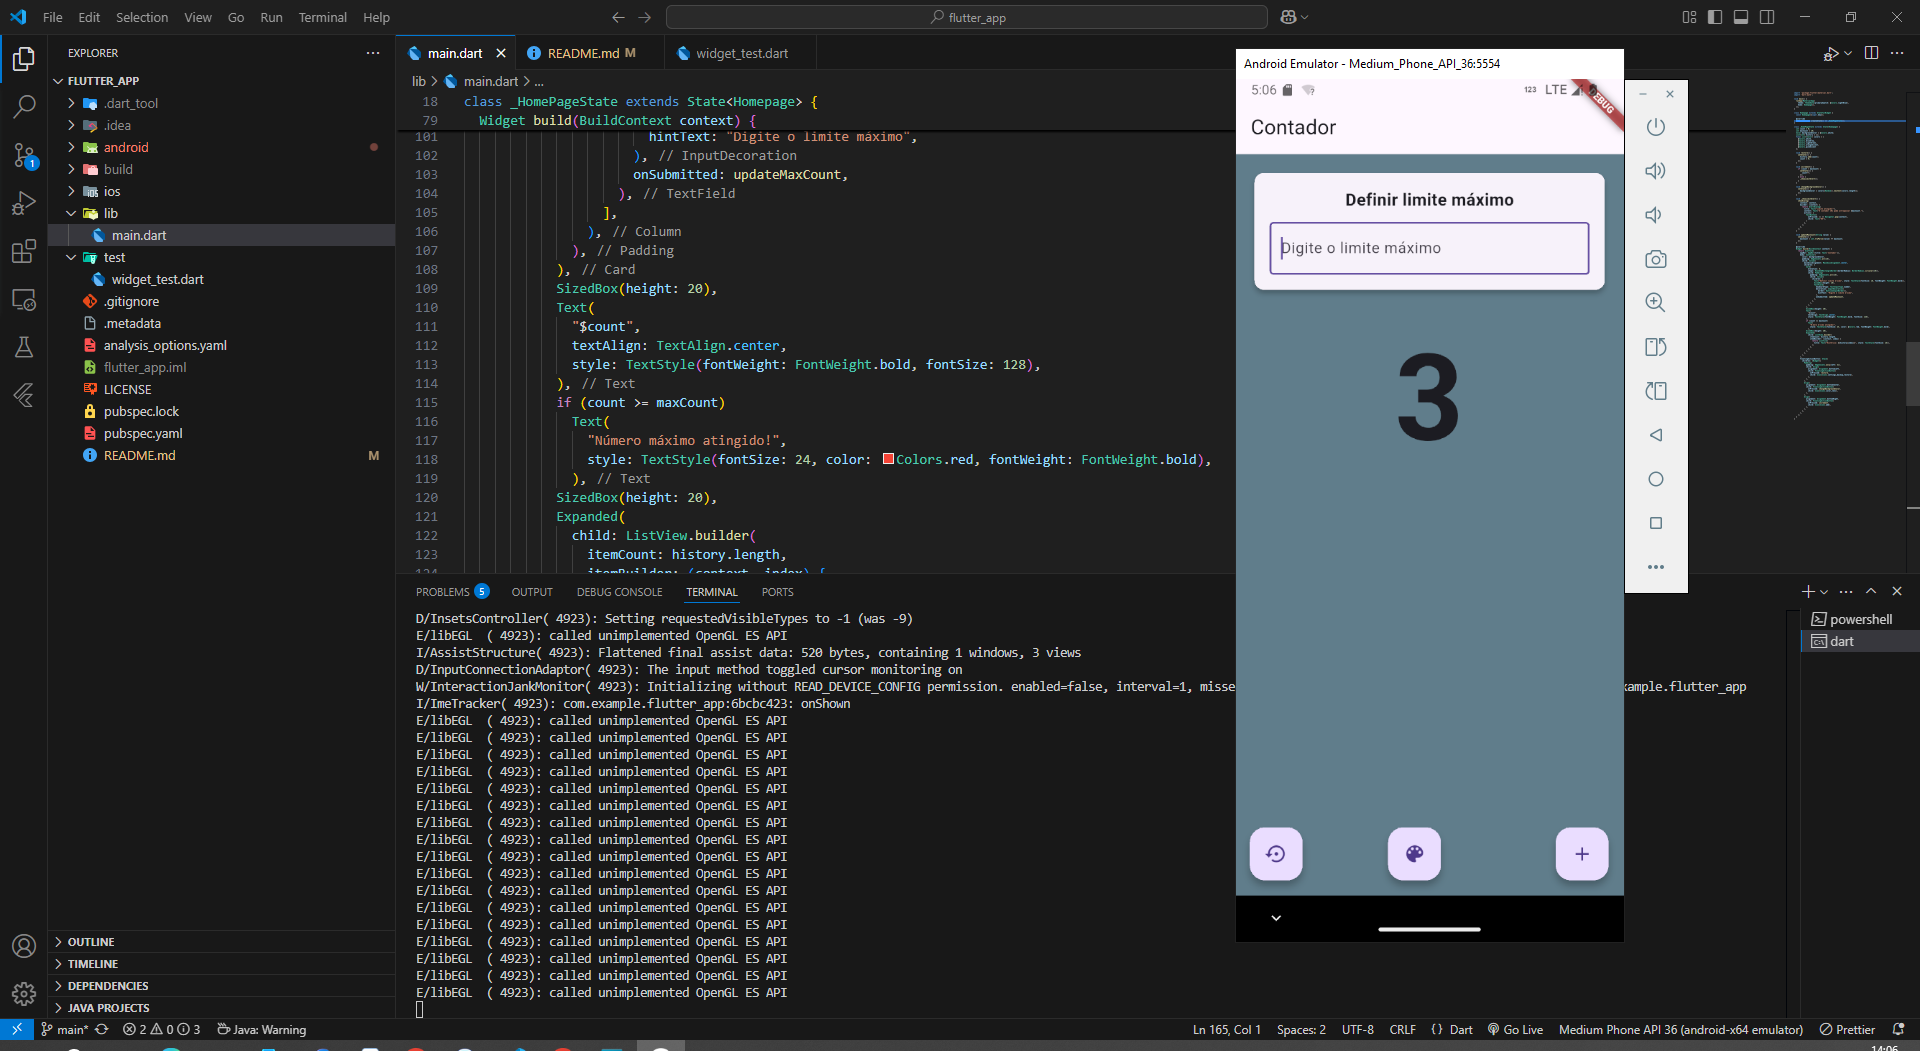
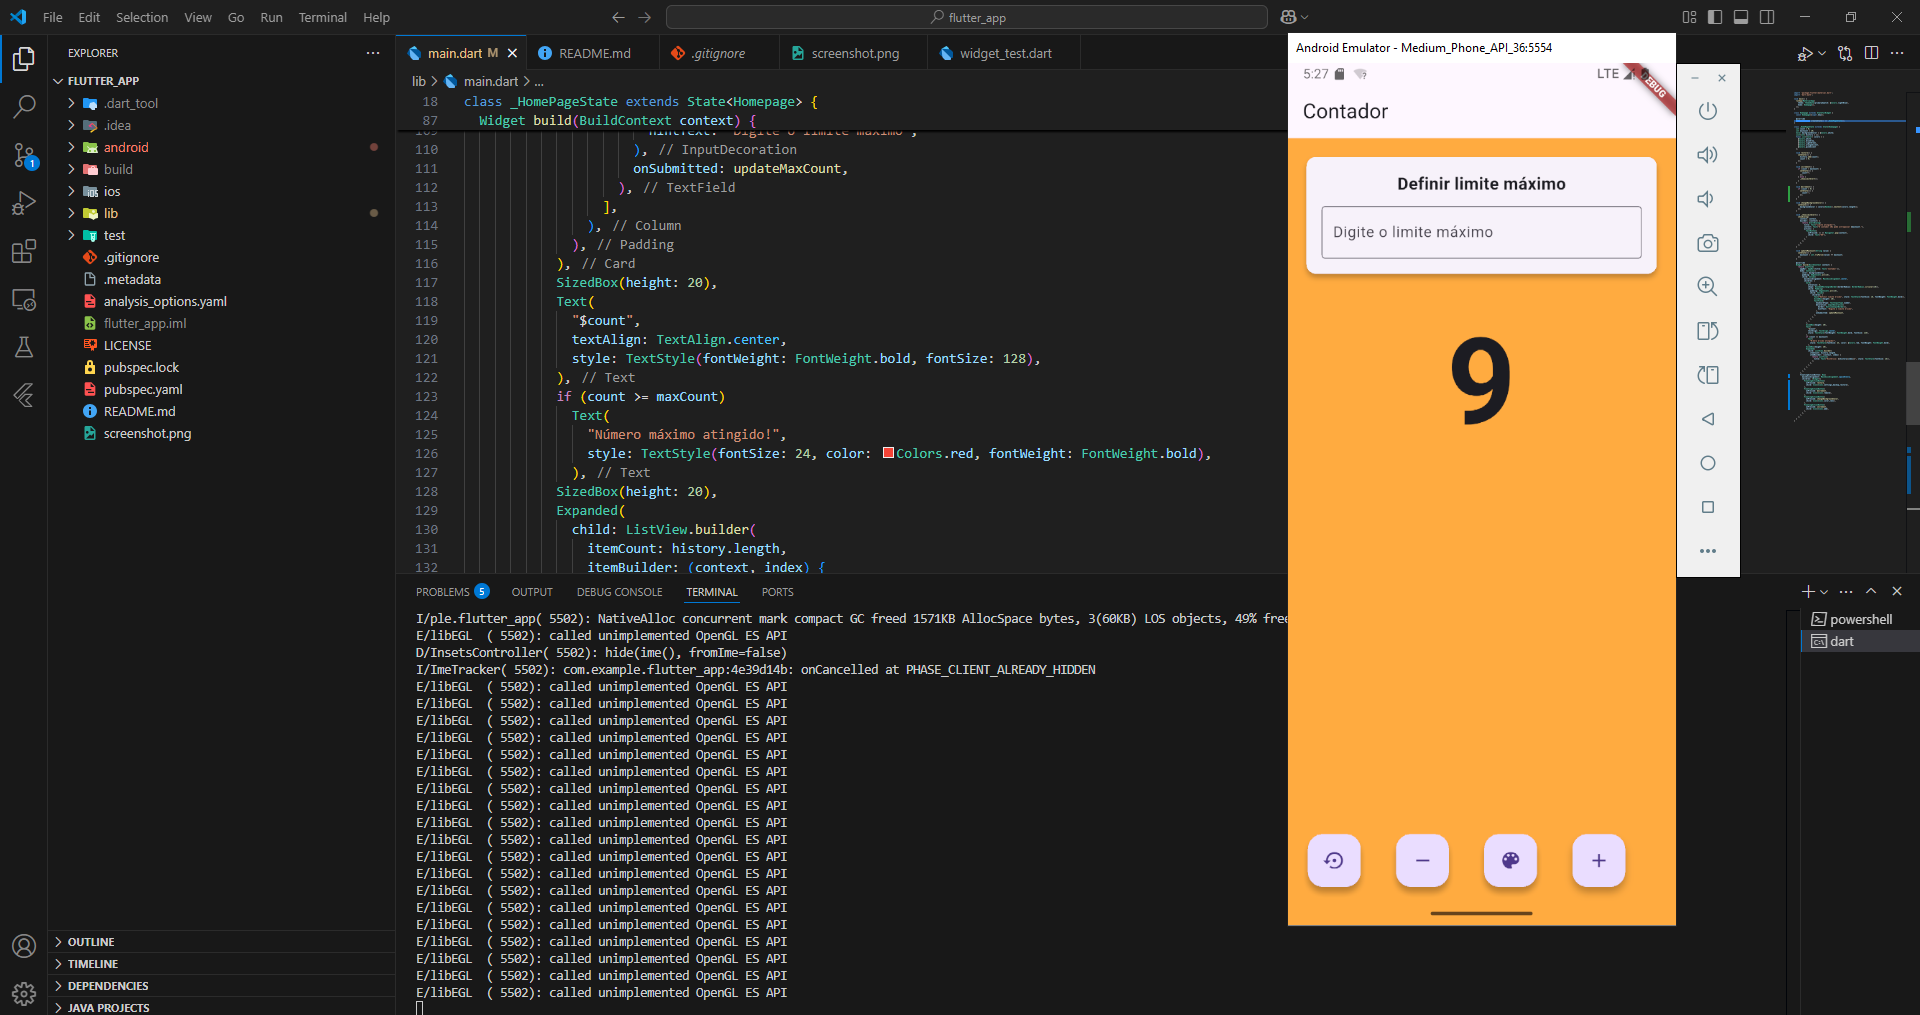
Bug Fix

diff --git a/lib/main.dart b/lib/main.dart
@@ -45,6 +45,14 @@ class _HomePageState extends State<Homepage> {
     }
   }
 
+  void decrement() {
+    if (count > 0) {
+      setState(() {
+        count--;
+      });
+    }
+  }
+
   void changeBackgroundColor() {
     setState(() {
       backgroundColor = colors[Random().nextInt(colors.length)];
@@ -131,31 +139,24 @@ class _HomePageState extends State<Homepage> {
           ],
         ),
       ),
-      floatingActionButton: Stack(
+      floatingActionButton: Row(
+        mainAxisAlignment: MainAxisAlignment.spaceEvenly,
         children: <Widget>[
-          Padding(
-            padding: EdgeInsets.only(left: 31),
-            child: Align(
-              alignment: Alignment.bottomLeft,
-              child: FloatingActionButton(
-                onPressed: restore,
-                child: Icon(Icons.settings_backup_restore),
-              ),
-            ),
+          FloatingActionButton(
+            onPressed: restore,
+            child: Icon(Icons.settings_backup_restore),
           ),
-          Align(
-            alignment: Alignment.bottomCenter,
-            child: FloatingActionButton(
-              onPressed: changeBackgroundColor,
-              child: Icon(Icons.color_lens),
-            ),
+          FloatingActionButton(
+            onPressed: decrement,
+            child: Icon(Icons.remove),
           ),
-          Align(
-            alignment: Alignment.bottomRight,
-            child: FloatingActionButton(
-              onPressed: increment,
-              child: Icon(Icons.add),
-            ),
+          FloatingActionButton(
+            onPressed: changeBackgroundColor,
+            child: Icon(Icons.color_lens),
+          ),
+          FloatingActionButton(
+            onPressed: increment,
+            child: Icon(Icons.add),
           ),
         ],
       ),
